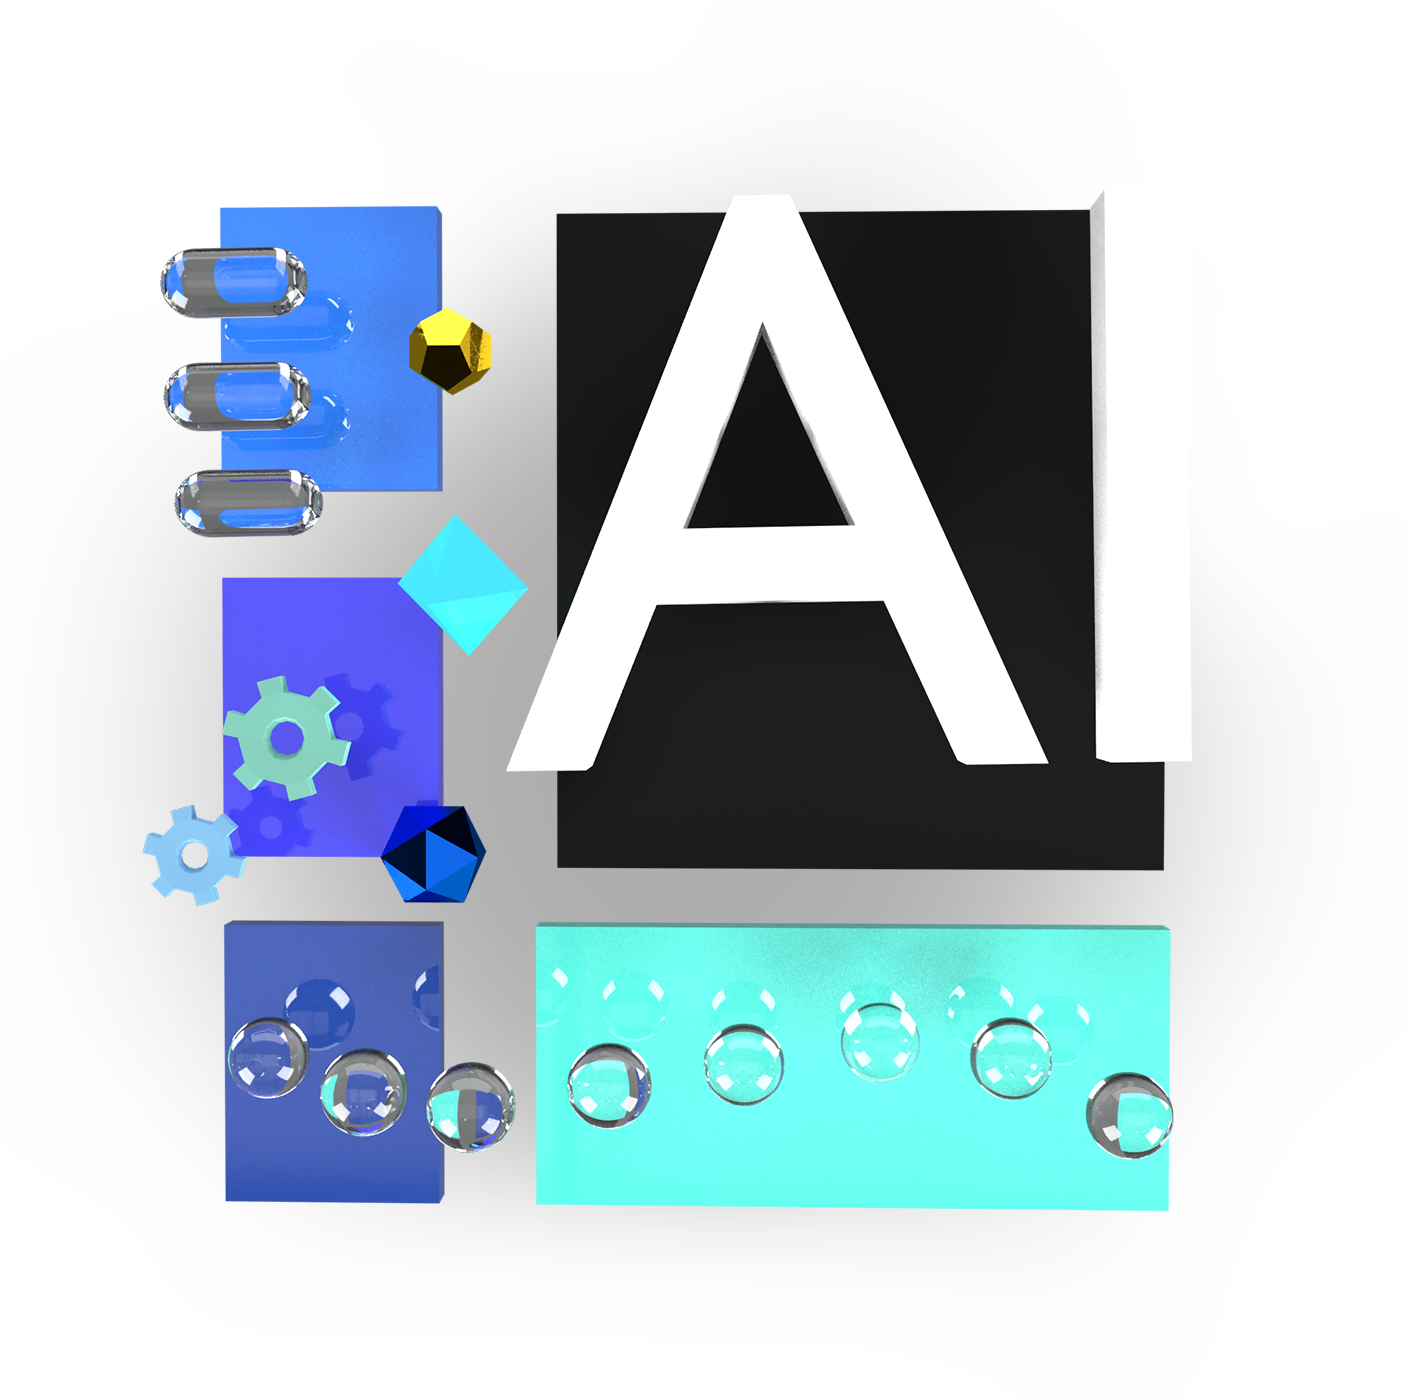
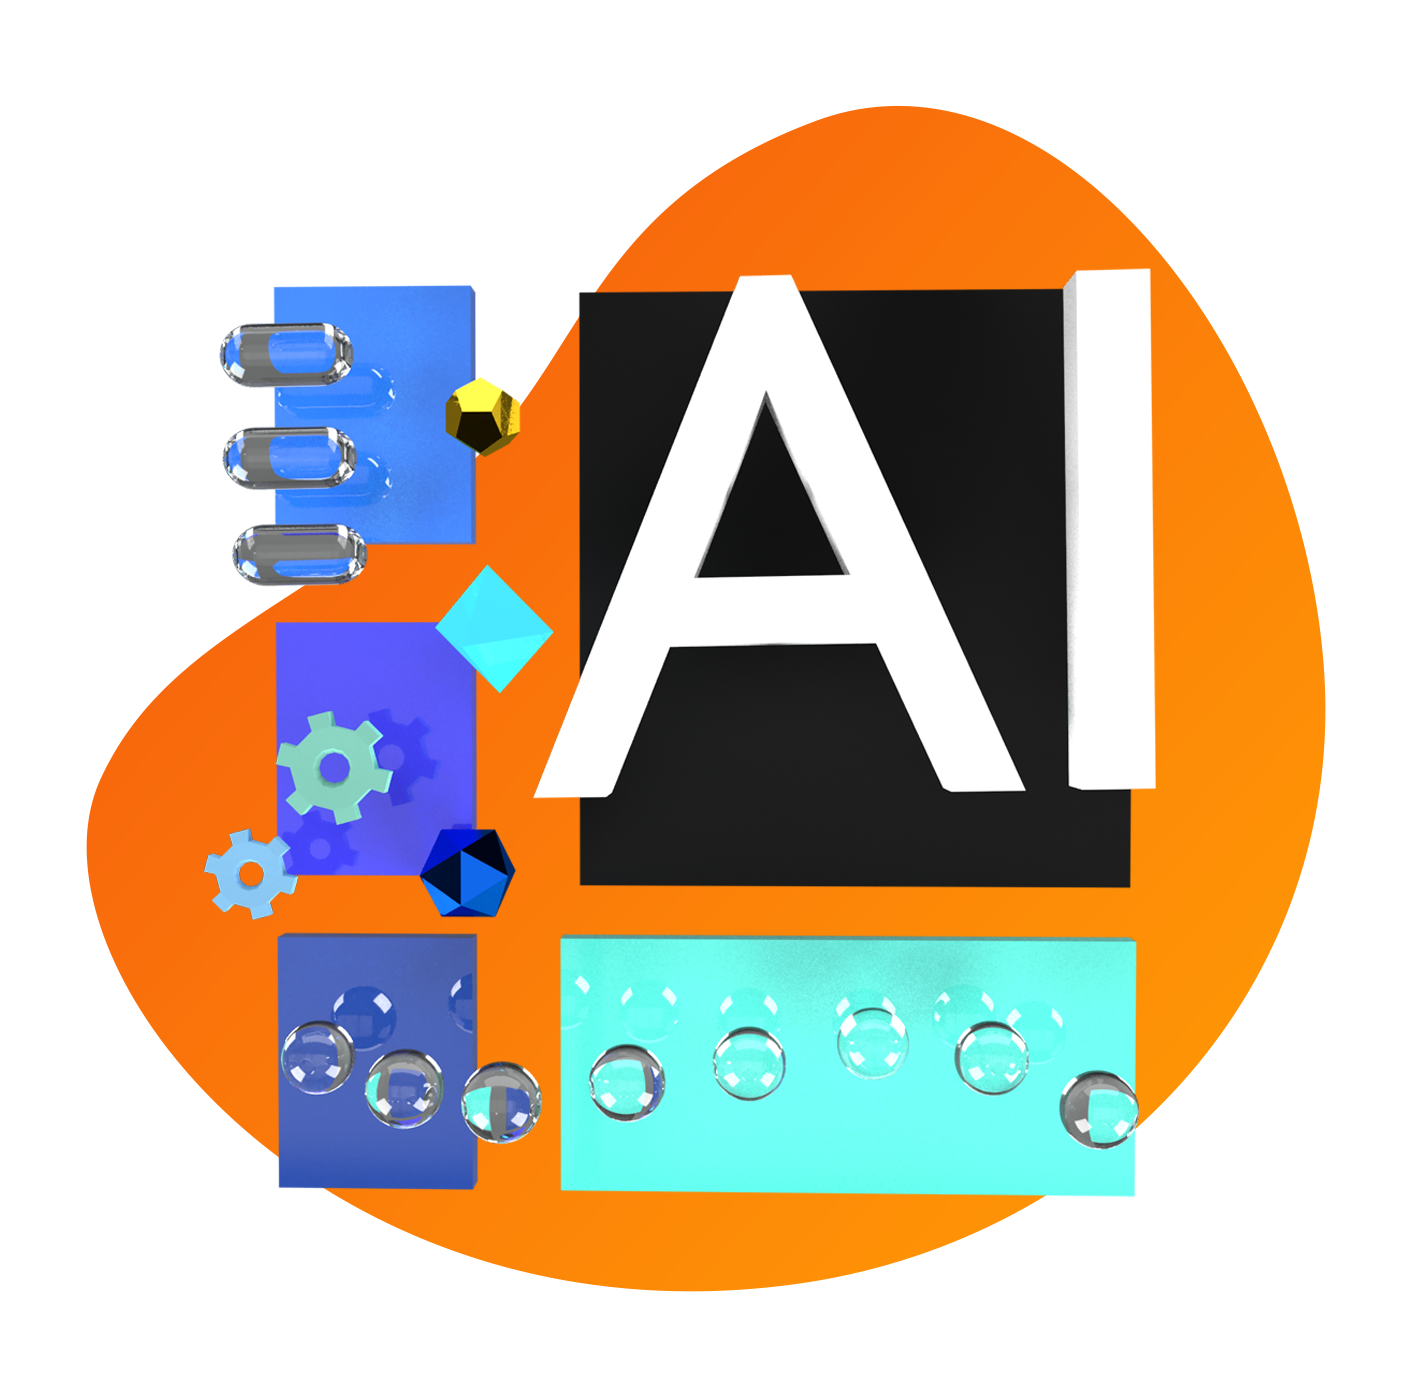
More engaging hero img

diff --git a/_includes/intro.html b/_includes/intro.html
@@ -20,7 +20,8 @@
 
       </div>
       <div class="col-md-6">
-        <div id="sliderImg" data-aos="fade-up" data-aos-duration="1500" data-aos-delay="500" data-aos-once="false"></div>
+        <div class="sliderimg__container" data-aos="fade-up" data-aos-duration="1500" data-aos-delay="500" data-aos-once="false"><div id="sliderImg" ></div>
+        </div>
       </div>
     </div>
   </div>

diff --git a/_sass/_airspace.scss b/_sass/_airspace.scss
@@ -169,7 +169,7 @@ header.bg {
 }
 #sliderImg {
   content: "";
-  
+  transform: scale(1.2);
   width: 100%;
   height: 500px;
   background: url("../img/skylab-hero.png") no-repeat;

diff --git a/_sass/_mobile.scss b/_sass/_mobile.scss
@@ -59,6 +59,7 @@
 
 	#sliderImg { 
 		height: 400px;
+		transform: scale(1);
 	}
 
 	.navbar-default .navbar-toggle {
